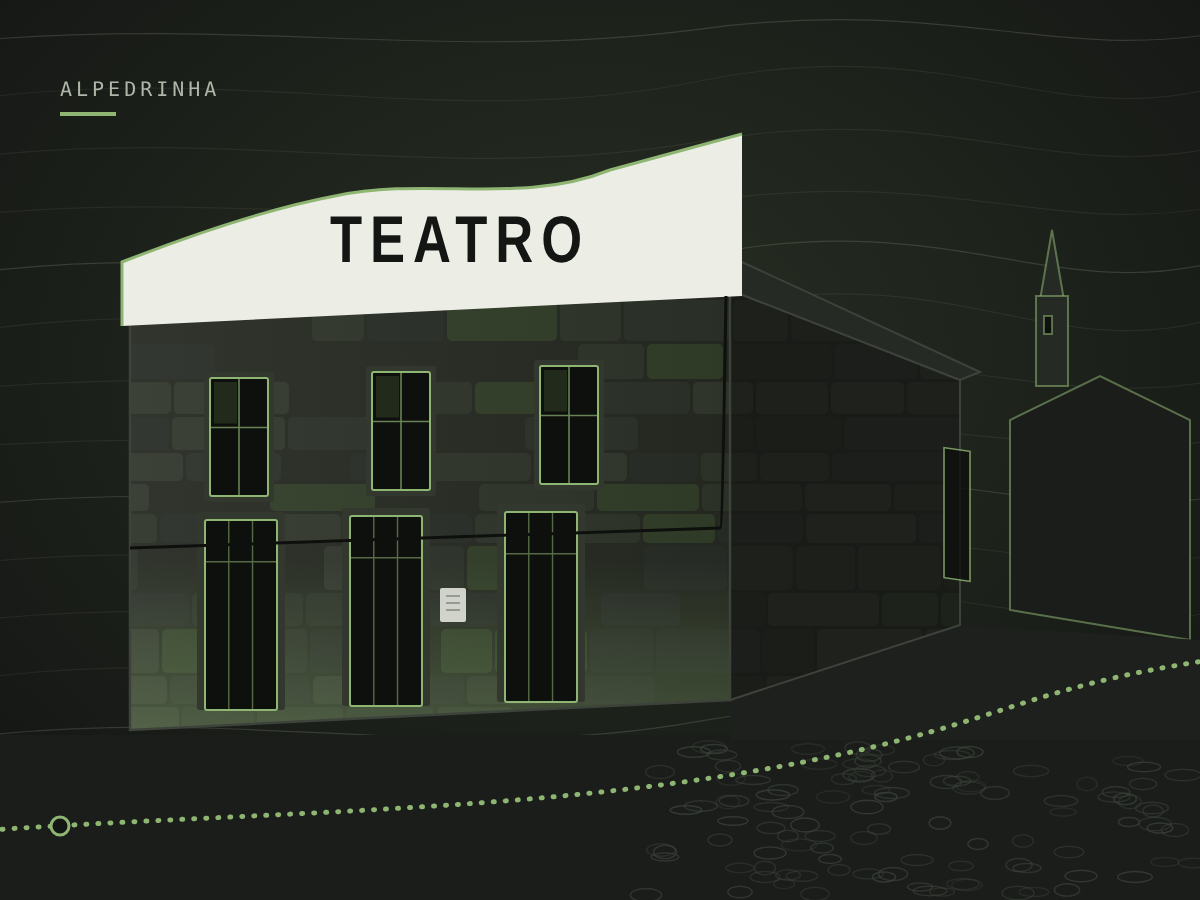
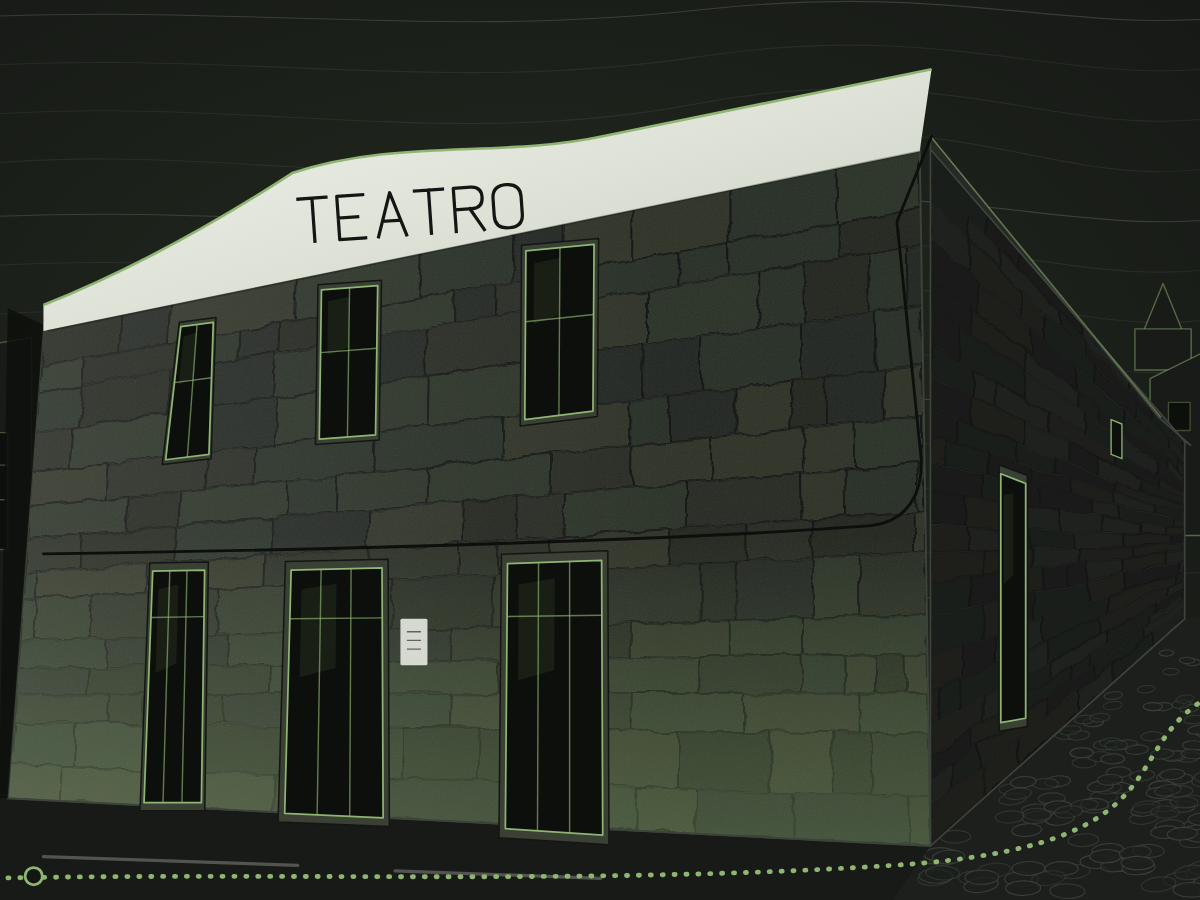
Grafismo Teatro v3: ilustração vetorial com geometria da foto, pedra irregular
Claude-Session: https://claude.ai/code/session_01WmT6Kpunuff11J39vvMKeK

diff --git a/grafismos/gen_teatro2.js b/grafismos/gen_teatro2.js
@@ -1,0 +1,114 @@
+const fs=require('fs');
+let sd=7;const r=()=>{sd=(sd*16807)%2147483647;return sd/2147483647};
+const f=n=>n.toFixed(1);
+const lerp=(a,b,t)=>a+(b-a)*t;
+const bil=(q,u,v)=>{const top=[lerp(q[0][0],q[1][0],u),lerp(q[0][1],q[1][1],u)],bot=[lerp(q[3][0],q[2][0],u),lerp(q[3][1],q[2][1],u)];return[lerp(top[0],bot[0],v),lerp(top[1],bot[1],v)]};
+const P=a=>a.map(p=>f(p[0])+','+f(p[1])).join(' ');
+function masonry(q,tones,rowH,wMin,wMax,seed){
+  let out='',v=0;
+  const qh=Math.hypot(q[3][0]-q[0][0],q[3][1]-q[0][1]);
+  while(v<1){const dv=(rowH*(0.75+r()*.6))/qh;const v2=Math.min(1,v+dv);
+    let u=-r()*.05;const qw=Math.hypot(q[1][0]-q[0][0],q[1][1]-q[0][1]);
+    while(u<1){const du=(wMin+r()*(wMax-wMin))/qw;const u2=u+du;
+      const a=Math.max(0,u),b=Math.min(1,u2);
+      if(b>a){const c=[bil(q,a,v),bil(q,b,v),bil(q,b,v2),bil(q,a,v2)];
+        const t=tones[Math.floor(r()*tones.length)];
+        out+=`<polygon points="${P(c)}" fill="${t}" stroke="#141614" stroke-width="1.6" stroke-linejoin="round"/>`;
+        // luz na aresta superior
+        out+=`<path d="M${f(c[0][0])},${f(c[0][1])}L${f(c[1][0])},${f(c[1][1])}" stroke="#ECEEE6" stroke-opacity="${(.04+r()*.07).toFixed(2)}" stroke-width="1"/>`;}
+      u=u2;}
+    v=v2;}
+  return out;}
+const FQ=[[95,300],[905,135],[915,782],[62,738]];
+const SQ=[[915,138],[1150,408],[1150,572],[915,782]];
+const tonesF=['#272B25','#2B3029','#2F342B','#252923','#30362C','#2A2E27'];
+const tonesS=['#1E211D','#222620','#1B1E1A','#20241F'];
+// janelas / portas como quadriláteros
+const quad=(q,fill,stroke,sw=1.6,extra='')=>`<polygon points="${P(q)}" fill="${fill}" stroke="${stroke}" stroke-width="${sw}" stroke-linejoin="round" ${extra}/>`;
+function opening(q,frameW,bars){
+  const inner=q.map((p,i)=>{const c=[(q[0][0]+q[1][0]+q[2][0]+q[3][0])/4,(q[0][1]+q[1][1]+q[2][1]+q[3][1])/4];return[p[0]+(c[0]-p[0])*frameW,p[1]+(c[1]-p[1])*frameW]});
+  const grow=q.map(p=>{const c=[(q[0][0]+q[1][0]+q[2][0]+q[3][0])/4,(q[0][1]+q[1][1]+q[2][1]+q[3][1])/4];return[p[0]+(p[0]-c[0])*.13,p[1]+(p[1]-c[1])*.07]});
+  let s=quad(grow,'#3A4034','#141614',1.4);
+  s+=quad(q,'#0D0F0C','#8FB573',1.6);
+  // reflexo
+  s+=`<polygon points="${P([bil(q,.12,.08),bil(q,.5,.06),bil(q,.5,.4),bil(q,.12,.44)])}" fill="#8FB573" opacity=".10"/>`;
+  bars(q,(u,v)=>bil(q,u,v)).forEach(l=>s+=`<path d="M${f(l[0][0])},${f(l[0][1])}L${f(l[1][0])},${f(l[1][1])}" stroke="#8FB573" stroke-width="1.3" opacity=".65"/>`);
+  return s;}
+const winBars=(q,m)=>[[m(.5,0),m(.5,1)],[m(0,.42),m(1,.42)]];
+const doorBars=(q,m)=>[[m(.33,0),m(.33,1)],[m(.66,0),m(.66,1)],[m(0,.2),m(1,.2)]];
+const W=[[[222,302],[252,298],[248,420],[208,425]],[[352,268],[404,264],[402,402],[350,406]],[[541,232],[604,226],[603,380],[540,388]]];
+const D=[[[196,528],[244,527],[241,742],[188,742]],[[324,527],[408,525],[409,756],[318,752]],[[524,521],[611,518],[612,772],[522,766]]];
+// contours
+let cont='';for(let i=0;i<18;i++){const y=20+i*50,a=20+(i*7%24);cont+=`<path d="M-20 ${y} C 250 ${y-a}, 450 ${y+a}, 700 ${y-a/2} S 1050 ${y+a}, 1220 ${y-a/3}" stroke-opacity="${i%4==0?.24:.11}"/>`}
+// paralelepípedos da calçada em perspetiva
+let cob='';
+for(let row=0;row<9;row++){const t=row/8;const y0=lerp(790,590,t*0+0);}
+const street=[[915,782],[1150,572],[1280,548],[1280,832],[880,832]];
+for(let i=0;i<260;i++){const u=r(),v=r();const x=lerp(900,1280,u*0.9+0.05),y0=lerp(600,830,v);
+  // só dentro do polígono da rua: acima da linha base da parede
+  const base=lerp(782,572,Math.min(1,Math.max(0,(x-915)/235)));if(y0<base+8)continue;
+  const sc=.6+v*.9;cob+=`<ellipse cx="${f(x)}" cy="${f(y0)}" rx="${f(11*sc)}" ry="${f(4.6*sc)}" fill="#1D201D" stroke="#3D433B" stroke-width="1.1" opacity="${(.5+r()*.4).toFixed(2)}" transform="rotate(${f(-8+r()*10)} ${f(x)} ${f(y0)})"/>`}
+// estrada esquerda (asfalto) com linha
+const svg=`<svg xmlns="http://www.w3.org/2000/svg" viewBox="55 0 1109 832" width="1200" height="900">
+<defs>
+<filter id="rough" x="0" y="0" width="100%" height="100%"><feTurbulence type="fractalNoise" baseFrequency=".035" numOctaves="3" seed="4" result="n"/><feDisplacementMap in="SourceGraphic" in2="n" scale="9" xChannelSelector="R" yChannelSelector="G"/></filter>
+<filter id="grain"><feTurbulence type="fractalNoise" baseFrequency=".9" numOctaves="2" seed="2" result="t"/><feColorMatrix in="t" type="matrix" values="0 0 0 0 .93  0 0 0 0 .94  0 0 0 0 .9  0 0 0 .5 -.18"/></filter>
+<clipPath id="cF"><polygon points="${P(FQ)}"/></clipPath>
+<clipPath id="cS"><polygon points="${P(SQ)}"/></clipPath>
+<clipPath id="cR"><polygon points="${P(street)}"/></clipPath>
+<linearGradient id="moss" x1="0" y1="0" x2="0" y2="1"><stop offset=".55" stop-color="#8FB573" stop-opacity="0"/><stop offset="1" stop-color="#8FB573" stop-opacity=".34"/></linearGradient>
+<linearGradient id="lit" x1="0" y1="0" x2="1" y2="0"><stop offset="0" stop-color="#ECEEE6" stop-opacity=".10"/><stop offset=".7" stop-color="#ECEEE6" stop-opacity="0"/></linearGradient>
+<linearGradient id="par" x1="0" y1="0" x2="1" y2="1"><stop offset="0" stop-color="#F3F5EE"/><stop offset="1" stop-color="#C9CFC0"/></linearGradient>
+<radialGradient id="glow" cx=".42" cy=".45" r=".75"><stop offset="0" stop-color="#8FB573" stop-opacity=".13"/><stop offset="1" stop-color="#8FB573" stop-opacity="0"/></radialGradient>
+</defs>
+<rect x="0" y="0" width="1300" height="832" fill="#141614"/><rect x="0" y="0" width="1300" height="832" fill="url(#glow)"/>
+<g fill="none" stroke="#A3A895" stroke-width="1.1" transform="translate(0 0) scale(1 .93)">${cont}</g>
+<!-- fundo: casa e torre -->
+<g fill="#181B17" stroke="#8FB573" stroke-opacity=".5" stroke-width="1.3" stroke-linejoin="round">
+ <polygon points="1112,306 1130,262 1148,306"/><rect x="1104" y="304" width="52" height="38"/>
+ <polygon points="1118,350 1175,322 1240,342 1240,495 1118,495"/>
+ <path d="M1190,398h30v22h-30z M1135,372h20v26h-20z" fill="#0D0F0C" stroke-opacity=".35"/>
+</g>
+<!-- edifício à esquerda -->
+<g stroke="#8FB573" stroke-opacity=".38" stroke-width="1.2" fill="#181B17"><polygon points="0,326 84,312 84,735 0,735"/><path d="M0,400h62v108H0z" fill="#0D0F0C"/><path d="M0,430h62M0,462h62" fill="none"/></g>
+<!-- rua -->
+<rect x="0" y="735" width="1300" height="100" fill="#171A16"/>
+<polygon points="${P(street)}" fill="#1C1F1B"/>
+<g clip-path="url(#cR)">${cob}</g>
+<path d="M62,738 L915,782" stroke="#3D433B" stroke-width="1.4"/>
+<path d="M95,792 L330,800 M420,805 L610,812" stroke="#ECEEE6" stroke-opacity=".28" stroke-width="3" stroke-linecap="round"/>
+<!-- lateral -->
+<g clip-path="url(#cS)"><rect x="900" y="120" width="270" height="680" fill="#1A1D19"/><g filter="url(#rough)">${masonry(SQ,tonesS,28,26,96)}</g><rect x="900" y="120" width="270" height="680" fill="#141614" opacity=".28"/></g>
+<polygon points="${P(SQ)}" fill="none" stroke="#3D433B" stroke-width="1.6"/>
+<polygon points="915,126 1126,386 1156,412 1150,408 915,138" fill="#262A25" stroke="#3D433B" stroke-width="1.4"/>
+<path d="M915,126L1128,386" stroke="#8FB573" stroke-opacity=".5" stroke-width="1.4"/>
+${opening([[980,438],[1003,447],[1003,664],[980,668]],.0,()=>[])}
+<polygon points="1082,388 1092,392 1092,424 1082,420" fill="#0D0F0C" stroke="#8FB573" stroke-width="1.2"/>
+<!-- fachada -->
+<g clip-path="url(#cF)"><rect x="55" y="120" width="880" height="680" fill="#23271F"/><g filter="url(#rough)">${masonry(FQ,tonesF,30,28,120)}</g><rect x="55" y="120" width="880" height="680" filter="url(#grain)" opacity=".18"/><rect x="55" y="120" width="880" height="680" fill="url(#lit)"/><rect x="55" y="120" width="880" height="680" fill="url(#moss)"/></g>
+<polygon points="${P(FQ)}" fill="none" stroke="#3D433B" stroke-width="1.8"/>
+<!-- pilastra esquerda -->
+<polygon points="62,285 95,300 62,738 54,738" fill="#0D0F0C" opacity=".85"/>
+<!-- aberturas -->
+${W.map(q=>opening(q,.0,winBars)).join('')}
+${D.map(q=>opening(q,.0,doorBars)).join('')}
+<rect x="425" y="572" width="25" height="43" rx="1.5" fill="#ECEEE6" opacity=".88"/><path d="M431,584H444M431,592H444M431,600H444" stroke="#141614" stroke-width="1.2" opacity=".6"/>
+<!-- cabo -->
+<path d="M95,512 C 400,508 700,498 860,486 C 905,480 908,440 906,420 L 884,205 L 916,126" fill="none" stroke="#0D0F0C" stroke-width="2.6" stroke-linecap="round"/>
+<!-- platibanda -->
+<path d="M95,306 L95,282 Q 205,238 325,160 C 420,128 520,146 612,126 L 916,64 L 905,140 Z" fill="url(#par)"/>
+<path d="M95,282 Q 205,238 325,160 C 420,128 520,146 612,126 L 916,64" fill="none" stroke="#8FB573" stroke-width="2.4"/>
+<path d="M99,306 L905,140" stroke="#141614" stroke-opacity=".35" stroke-width="2"/>
+<g transform="translate(333 224) rotate(-4)" fill="none" stroke="#141614" stroke-width="3" stroke-linecap="square" stroke-linejoin="round">
+ <g><path d="M0,-40H26M13,-40V0"/></g>
+ <g transform="translate(36 0)"><path d="M24,-40H0V0H24M0,-20H18"/></g>
+ <g transform="translate(72 0)"><path d="M0,0L13,-40L26,0M5,-14H21"/></g>
+ <g transform="translate(108 0)"><path d="M0,-40H26M13,-40V0"/></g>
+ <g transform="translate(144 0)"><path d="M0,0V-40H16Q26,-40 26,-30Q26,-20 16,-20H0M14,-20L26,0"/></g>
+ <g transform="translate(180 0)"><path d="M13,-40Q26,-40 26,-28V-12Q26,0 13,0Q0,0 0,-12V-28Q0,-40 13,-40Z"/></g>
+</g>
+<!-- rota pontilhada -->
+<path d="M40,812 C 330,806 600,818 880,800 S 1080,690 1180,640" fill="none" stroke="#8FB573" stroke-width="4.5" stroke-linecap="round" stroke-dasharray="1 10"/>
+<circle cx="86" cy="810" r="8" fill="#141614" stroke="#8FB573" stroke-width="2.6"/>
+</svg>`;
+fs.writeFileSync('alpedrinha-teatro.svg',svg);
